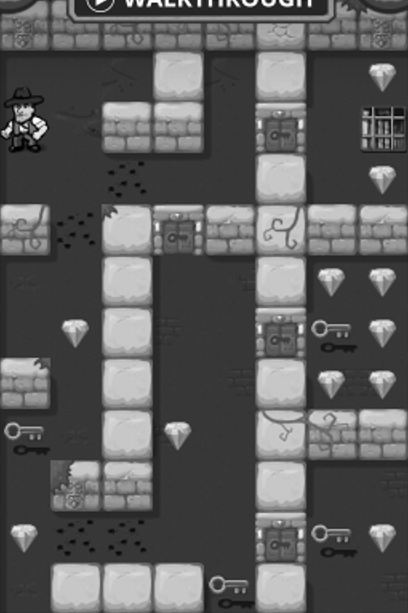
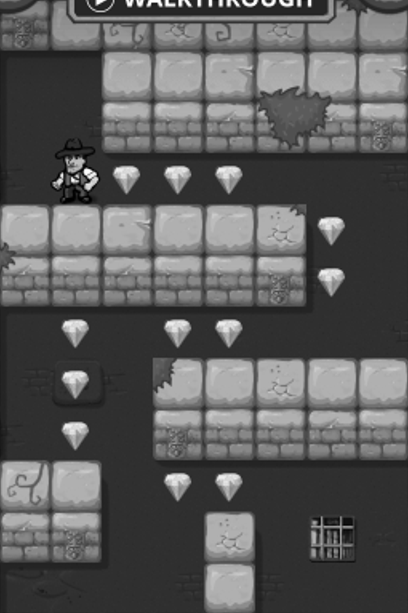
feat: :sparkles: Up to level 3

diff --git a/src/calculate_path.py b/src/calculate_path.py
@@ -115,6 +115,7 @@ def get_children(node, end_node, maze):
     return children
 
 def astar(maze, start, end):
+    global player
     start_node = Node(start, 0, heuristic(start, end), None)
     end_node = Node(end, 0, 0, None)
 
@@ -141,8 +142,8 @@ def astar(maze, start, end):
         if current_type == "PI":
             maze[current_row][current_col] = "M"
         
-        if (current_type == "D" or current_type == "PLL") and current_node.position != end_node.position:
-            print("Nuevo objetivo encontrado!", current_node.position)
+        if (current_type == "D" or current_type == "PLL" or (current_type == "LL" and player != None and not player.has_key())) and current_node.position != end_node.position:
+            #print("Nuevo objetivo encontrado!", current_node.position)
             return current_node
         
         #------------------------------------------------------------------
@@ -237,9 +238,7 @@ def get_final_path(maze, init_target, init_idx):
             player.catch_diamond()
 
         if current_target_type == "LL" and player != None and not player.has_key():
-            print("Key catched!")
             player.catch_key()
-            print(player.has_key())
         
         if current_target_type == "PLL" and player != None and player.has_key():
             player.open_door()
@@ -247,8 +246,6 @@ def get_final_path(maze, init_target, init_idx):
         #------------------------------------------------------------------
 
         #Find the closest key
-        if player != None:
-            print("Player has key?", player.has_key())
         while next_target.type != "LL" and player != None and player.keys_to_catch > 0 and player.has_key() == False:
             current_target_adj_array[next_target_idx] = 100
 
@@ -260,7 +257,6 @@ def get_final_path(maze, init_target, init_idx):
         
         current_maze = [row[:] for row in maze] #Copy matrix
         #A* would find another target in the way. Then, returns the node
-        print(current_target.position, next_target.position)
         path_or_node = astar(current_maze, current_target.position, next_target.position)
         
         #Would reach another new target from another path
@@ -281,7 +277,7 @@ def get_final_path(maze, init_target, init_idx):
             exit()
         
         partial_path = path_or_node
-        print(partial_path)
+        #print(partial_path)
         path += partial_path
 
         #Takes the next target as the new initial point.
@@ -291,7 +287,7 @@ def get_final_path(maze, init_target, init_idx):
         iter += 1
     return path
 
-#------------------------------------------------------------------ Proceso Final
+#------------------------------------------------------------------
 
 ### Estrategia para rocas:
 ### guardar en una lista / diccionario adicional los Huecos u rocas, junto a posiciones (Linea 170)
@@ -306,7 +302,7 @@ def get_final_path(maze, init_target, init_idx):
 ### Esto deberia hacer el Nivel 4 y 5
 
 field = get_field()
-os.system("clear")
+#os.system("clear")
 ######
 ### Funcion obtener roca
 ###
@@ -330,4 +326,4 @@ if player != None:
     player.set_total_keys(total_keys)
     player_idx = nodes_list.index(player)
     final_path = get_final_path(field, player, player_idx)
-    print(final_path)
+    #print(final_path)

diff --git a/src/main.py b/src/main.py
@@ -1,16 +1,20 @@
 import pyautogui as py
 import time
+from init_game import game
 from calculate_path import final_path
 #------------------------------------------------------------------
 def move(x):
 	py.keyDown(x)
-	time.sleep(0.35) #InputLag
+	time.sleep(0.3) #InputLag
 	py.keyUp(x)
 	
 #------------------------------------------------------------------
+browser = game
 chain = final_path
-
-time.sleep(5) #Grace time
+print(chain)
+print("GO TO BROWSER!")
+time.sleep(2) #Grace time
 for movement in chain:
-	print(movement)
 	move(movement)
+time.sleep(5)
+browser.close()
